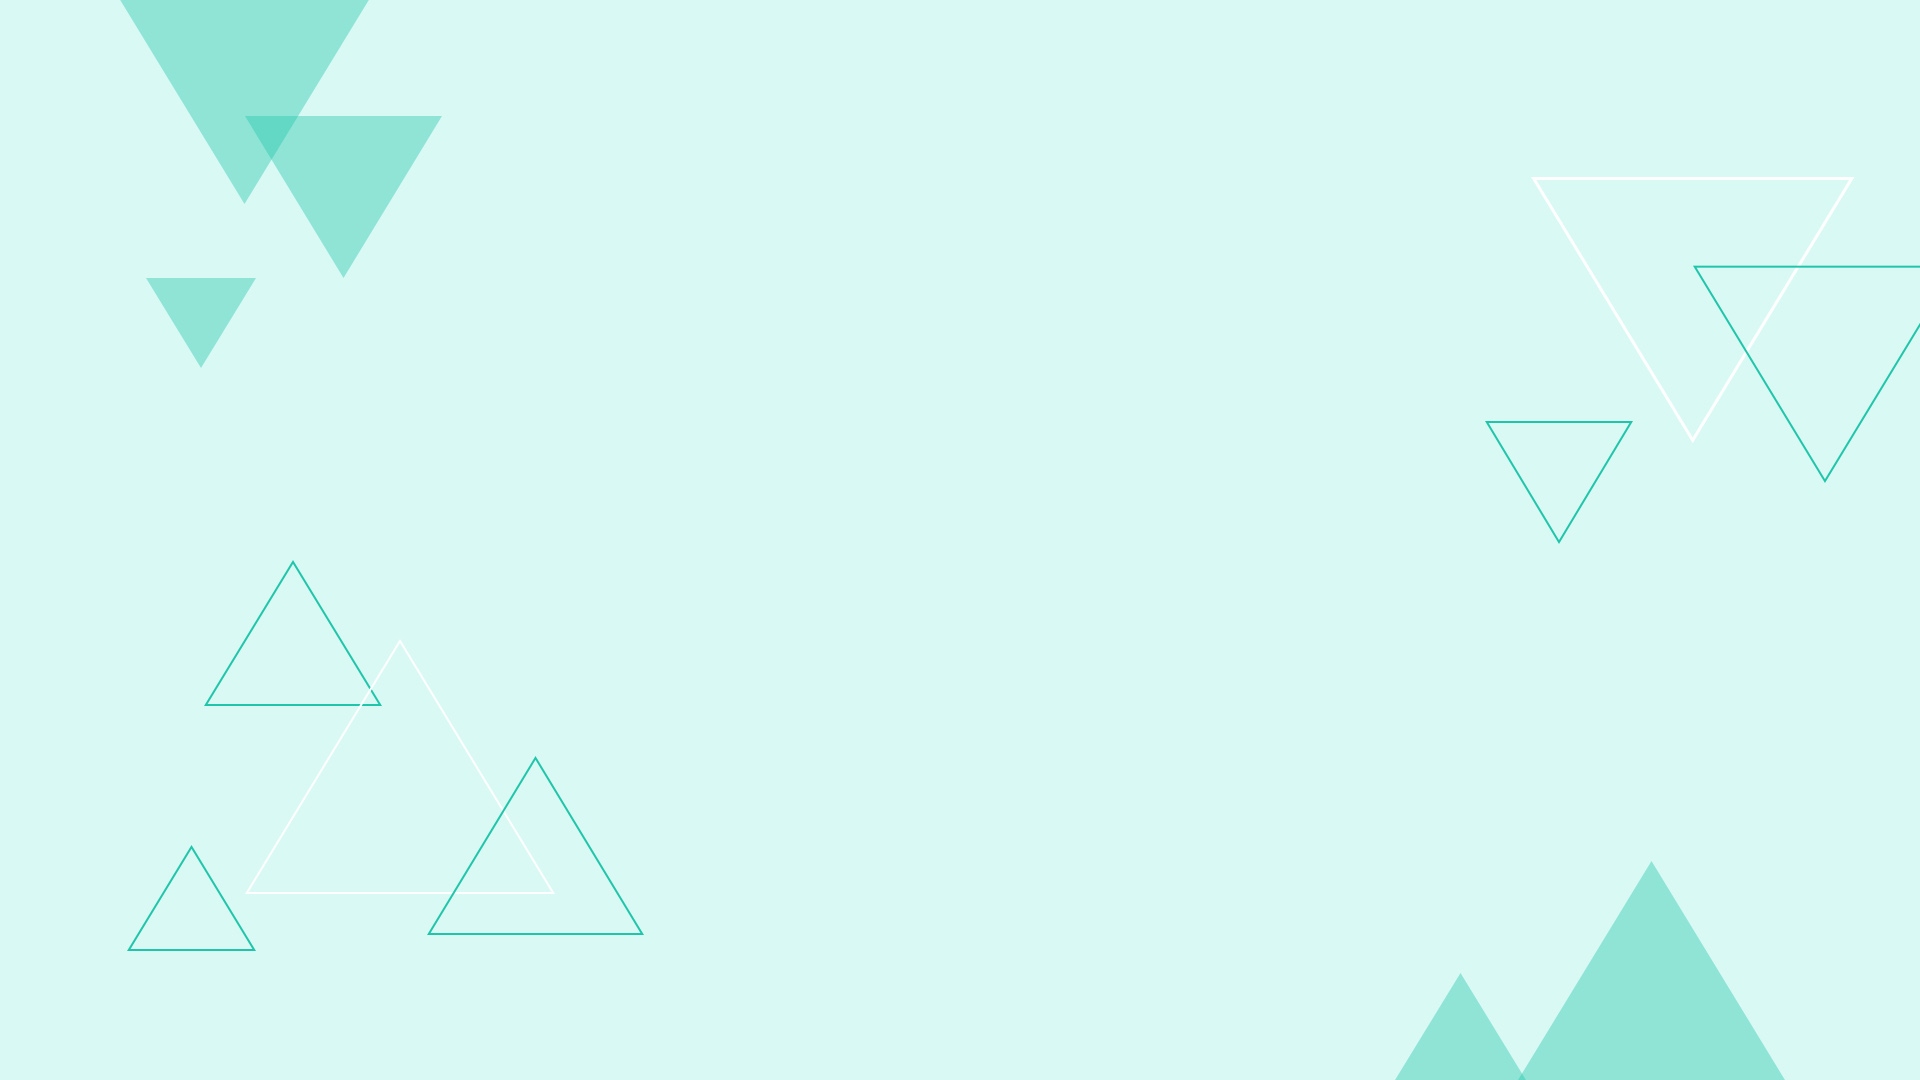
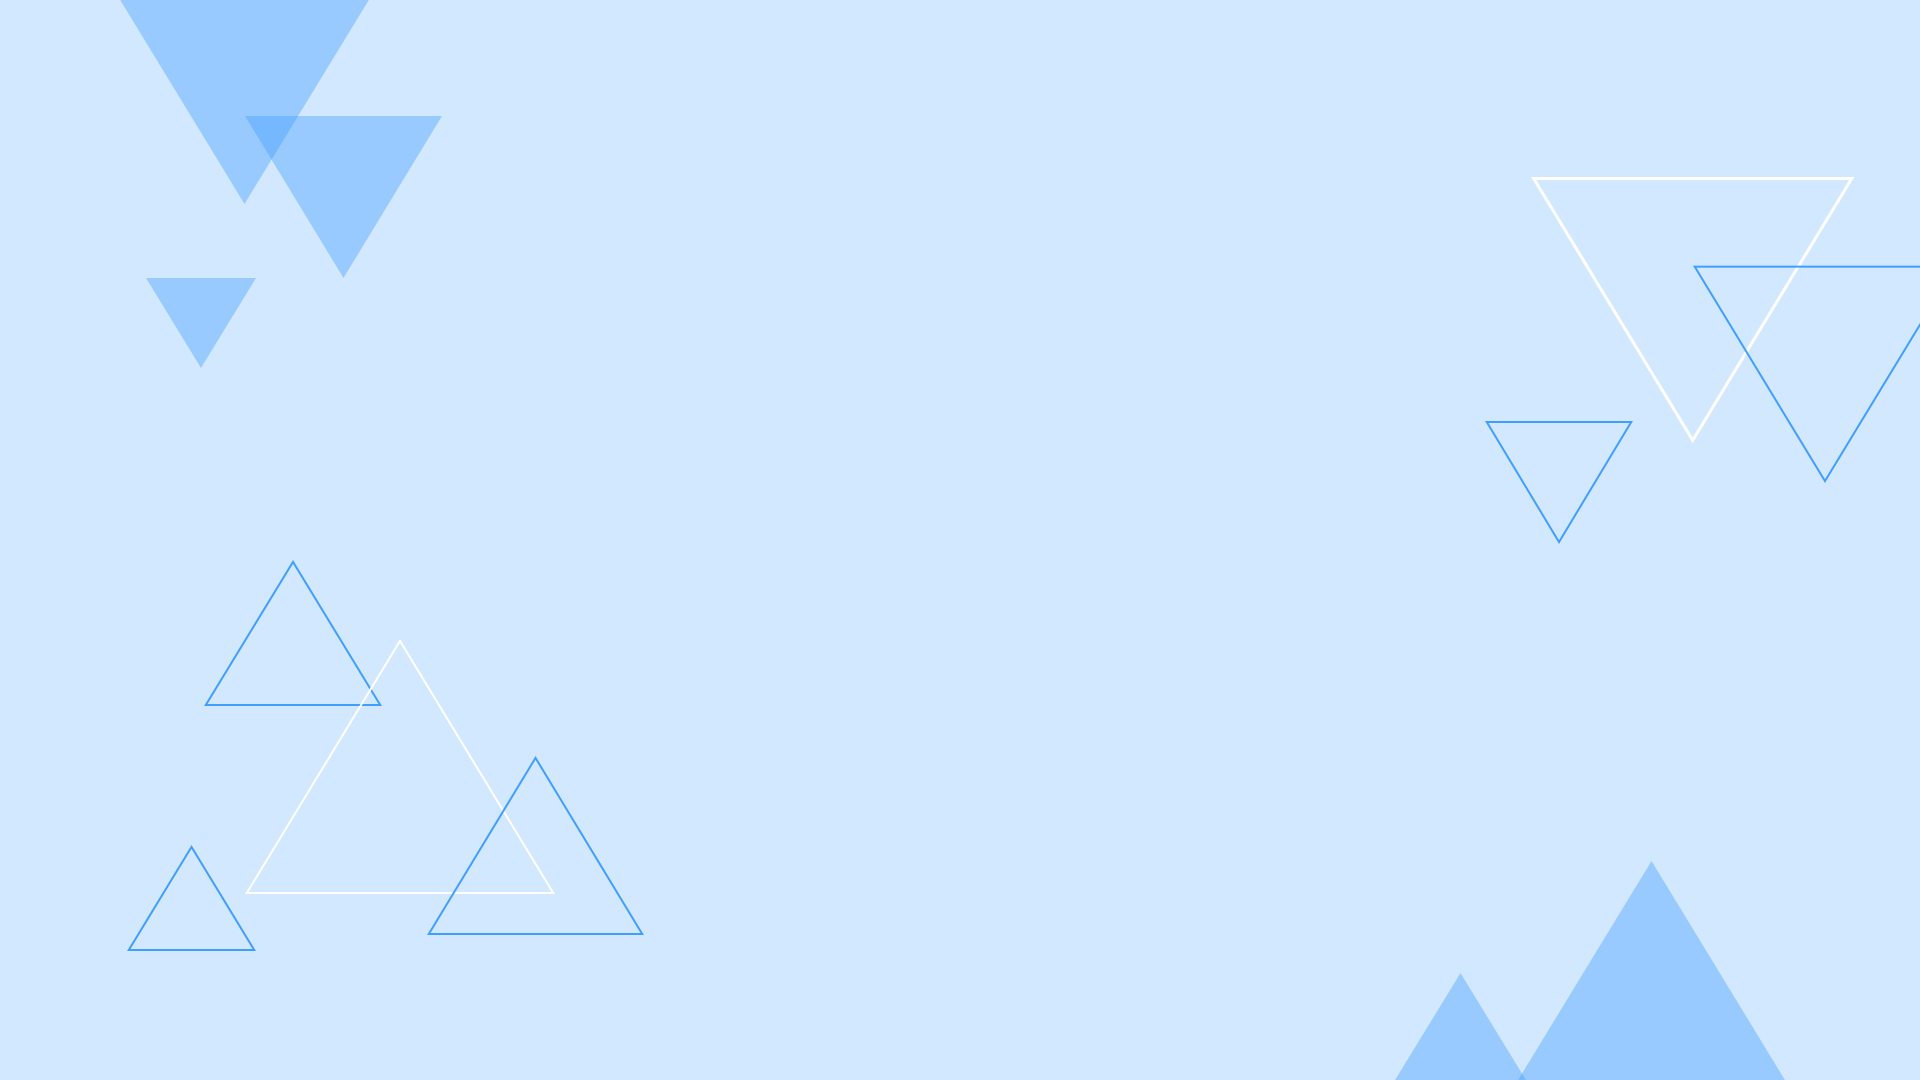
Modify form style

diff --git a/src/stylesheets/form.scss b/src/stylesheets/form.scss
@@ -1,30 +1,50 @@
 .form-com-container {
-  margin: 0 20%;
+  margin: 0 auto;
+  width: 920px;
 
+  .return-to-prev {
+    height: 48px;
+    line-height: 48px;
+    background-color: $primary;
+    color: #fff;
+    padding-left: 30px;
+    font-size: 16px;
+    margin-bottom: 10px;
+
+    span {
+      font-weight: bold;
+    }
+    i {
+      color: #fff;
+    }
+  }
   .form-wrapper {
     border: 1px solid #ebeef5;
     background-color: #fff;
     box-shadow: 0 2px 12px 0 rgba(0,0,0,.1);
     border-radius: 2px;
-    margin-top: 20px;
 
     .form-item-desc {
       background-color: rgba(215, 215, 215, 1);
       padding: 0 5%;
     }
     .img-wrapper {
-      margin: 10px 5% 0 5%;
       position: relative;
-      text-align: center;
 
       .form-cover {
-        max-height: 300px;
+        height: 420px;
         width: 100%;
       }
       .change-cover-btn {
         position: absolute;
-        top: 3px;
-        right: 5px;
+        top: 10px;
+        right: 10px;
+
+        .change-cover {
+          width: 110px;
+          height: 38px;
+          border-radius: 20px;
+        }
       }
       .imgs-list {
         display: flex;
@@ -66,32 +86,27 @@
       }
     }
     .title-wrapper {
-      margin: 0 5%;
-
-      input {
-        border: none;
-        padding-left: 0;
-        padding-right: 0;
-      }
+      margin: 0 30px;
     }
     .desc-wrapper {
-      margin: 0 5%;
+      margin: 0 30px;
     }
     .form-address {
       display: flex;
-      margin: 0 5%;
+      margin: 0 30px;
       margin-bottom: 30px;
       .address-text {
-        width: 10%;
-        margin-right: 3%;
+        margin-right: 20px;
+        width: 92px;
       }
       .address-input {
-        width: 87%;
+        width: 415px;
       }
     }
     #map-container {
-      width: 100%;
-      height: 500px;
+      margin: 0 auto;
+      width: 848px;
+      height: 486px;
     }
     #map-panel {
       position: absolute;
@@ -105,52 +120,98 @@
     .map-close {
       position: absolute;
       cursor: pointer;
-      top: 70px;
-      right: 5px;
-      font-size: 45px;
+      top: 80px;
+      right: 50px;
+      font-size: 25px;
+      line-height: 25px;
+      height: 25px;
+      background-color: #f1f1f1;
+      border-radius: 5px;
     }
     .form-check {
-      margin: 0 5%;
+      margin: 0 30px;
 
       .check-text {
-        margin-right: 3%;
+        margin-right: 24px;
+        line-height: 40px;
+        display: inline-block;
+        width: 92px;
+      }
+    }
+    .form-time-period-select {
+      margin: 0 30px;
+      .select-text {
+        margin-right: 24px;
+        line-height: 40px;
+        display: inline-block;
+        width: 92px;
       }
     }
     .form-settime-wrapper {
       .setting-pattern {
-        margin: 20px 5%;
+        margin-left: 146px;
+        margin-bottom: 20px;
       }
       .normal-setting-wrapper {
         position: relative;
-        .normal-setting-item {
-          display: flex;
-          padding: 0 10% 0 5%;
-          justify-content: space-between;
-          background-color: #d7d7d7;
-          margin-bottom: 20px;
+        margin-left: 146px;
+
+        .normal-setting-item-wrapper {
+          width: 450px;
+          position: relative;
 
           &:hover {
             .operate-btn {
               display: block;
             }
           }
+        }
+        .normal-setting-item {
+          display: flex;
+          border-radius: 4px;
+          border: 1px solid #dcdfe6;
+          margin-bottom: 20px;
+          width: 415px;
+
+          .item-left {
+            margin-left: 10px;
+            position: relative;
+
+            &::after {
+              content: '';
+              position: absolute;
+              top: 10px;
+              right: -10px;
+              width: 1px;
+              height: 20px;
+              background-color: #f1f1f1;
+            }
+          }
+          .item-right {
+            display: flex;
+            flex-direction: column;
+            margin-left: 20px;
+          }
           .weekday-container {
             cursor: pointer;
+            line-height: 20px;
           }
           .weekday {
-            margin-right: 10px;
+            margin-right: 5px;
           }
           .number {
             width: 70px;
+            line-height: 20px;
+            font-size: 12px;
           }
 
           .operate-btn {
             position: absolute;
-            right: 5px;
+            right: -3px;
+            width: 32px;
+            text-align: center;
             display: none;
-            i {
-              margin-right: 5px;
-            }
+            color: $primary;
           }
         }
         .setting-content{
@@ -186,8 +247,8 @@
     }
   }
   .form-btn {
-    text-align: right;
-    margin-right: 20px;
+    margin-left: 146px;
+    margin-bottom: 20px;
   }
 }
 .el-time-panel {

diff --git a/src/components/time_setter.vue b/src/components/time_setter.vue
@@ -1,24 +1,27 @@
 <template>
   <div class="form-settime-wrapper">
-    <div class="form-item-desc">预约时间设置</div>
     <el-radio-group v-model="isShowNormal" class="setting-pattern">
       <el-radio-button :label="true">常规设置</el-radio-button>
       <el-radio-button :label="false">特殊设置</el-radio-button>
     </el-radio-group>
     <div class="normal-setting-wrapper" v-show="isShowNormal">
-      <div class="normal-setting-item"
-           v-for="(item, index) in formatedTimeState">
-        <span>{{ item.time }}</span>
-        <div @click="editItem(index)" class="weekday-container">
-          <span v-for="day in item.weekday" class="weekday">{{ day }}</span>
+      <div class="normal-setting-item-wrapper">
+        <div class="normal-setting-item"
+             v-for="(item, index) in formatedTimeState">
+          <span class="item-left">{{ item.time }}</span>
+          <div class="item-right">
+            <div @click="editItem(index)" class="weekday-container">
+              <span v-for="day in item.weekday" class="weekday">{{ day }}</span>
+            </div>
+            <span class="number" v-if="item.limit === null">名额不限制</span>
+            <span v-else class="number">名额{{ item.limit }}人</span>
+          </div>
+          <span class="operate-btn">
+            <i class="el-icon-circle-plus-outline" @click="newItem"></i>
+            <i class="el-icon-remove-outline" v-show="formatedTimeState.length > 1"
+            @click="deleteItem(index)"></i>
+          </span>
         </div>
-        <span  v-if="item.limit === null">名额不限制</span>
-        <span v-else class="number">名额{{ item.limit }}人</span>
-        <span class="operate-btn">
-          <i class="el-icon-circle-plus-outline" @click="newItem"></i>
-          <i class="el-icon-remove-outline" v-show="formatedTimeState.length > 1"
-          @click="deleteItem(index)"></i>
-        </span>
       </div>
       <el-dialog
         title="预约时间设置"

diff --git a/src/pages/form.vue b/src/pages/form.vue
@@ -3,7 +3,7 @@
     <div class="return-to-prev">
       <router-link to="/admin/projects"><i class="el-icon-back"></i></router-link>
       <span v-if="this.$route.params.id">修改预约项目</span>
-      <span v-else>创建新的预约项目</span>
+      <span v-else>创建预约项目</span>
     </div>
     <div class="form-wrapper">
       <el-form ref="form" :model="form">
@@ -36,6 +36,11 @@
             <span class="check-text">审核模式: </span>
             <el-radio v-model="form.check_mode" label="auto">自动审核</el-radio>
             <el-radio v-model="form.check_mode" label="manual">人工审核</el-radio>
+          </div>
+        </el-form-item>
+        <el-form-item>
+          <div class="form-time-period-select">
+            <span class="select-text">预约时间设置:</span>
           </div>
         </el-form-item>
         <el-form-item>

diff --git a/src/components/cover_picker.vue b/src/components/cover_picker.vue
@@ -2,7 +2,7 @@
   <div class="img-wrapper">
     <formated-image :originUrl="currentImage" :className="classNames.form_cover"></formated-image>
     <div class="change-cover-btn">
-      <el-button type="primary" size="small" @click="coverModalVisible = true">更换封面</el-button>
+      <el-button type="primary" class="change-cover" @click="coverModalVisible = true">更换封面</el-button>
       <el-dialog title="更换封面"
                  :visible.sync="coverModalVisible"
                  width="800px"

diff --git a/src/pages/detail.vue b/src/pages/detail.vue
@@ -6,8 +6,8 @@
       <span class="project-state">开启预约</span>
       <el-switch
         v-model="projectState"
-        active-color="#13ce66"
-        inactive-color="#ff4949"
+        active-color="#409EFF"
+        inactive-color="#909997"
         @change="changeState">
       </el-switch>
       <el-dialog

diff --git a/src/stylesheets/detail.scss b/src/stylesheets/detail.scss
@@ -1,5 +1,6 @@
 .detail-com-container {
-  margin: 0 10%;
+  margin: 0 auto;
+  width: 920px;
   .return-to-prev {
     box-shadow: 0 2px 12px 0 rgba(0, 0, 0, 0.1);
     border: 1px solid #ebeef5;

diff --git a/src/components/global.vue b/src/components/global.vue
@@ -1,5 +1,5 @@
 <script>
-  const server = 'http://192.168.31.208';
+  const server = 'http://www.axuzz.cn';
   const expire = 1000 * 60 * 60 * 36;
   const routers = {
     'login': '/login',

diff --git a/src/stylesheets/element-variables.scss b/src/stylesheets/element-variables.scss
@@ -1,4 +1,4 @@
-$--color-primary: #20c5aa;
+$--color-primary: #409EFF;
 /* 改变 icon 字体路径变量，必需 */
 $--font-path: '~element-ui/lib/theme-chalk/fonts';
 

diff --git a/src/stylesheets/admin.scss b/src/stylesheets/admin.scss
@@ -1,5 +1,6 @@
 .admin-com-container {
-  margin: 0 10%;
+  margin: 0 auto;
+  width: 920px;
 
   .card-wrapper {
     display: flex;

diff --git a/src/stylesheets/variables.scss b/src/stylesheets/variables.scss
@@ -1,1 +1,1 @@
-$primary:#20c5aa;
+$primary: #409EFF;
